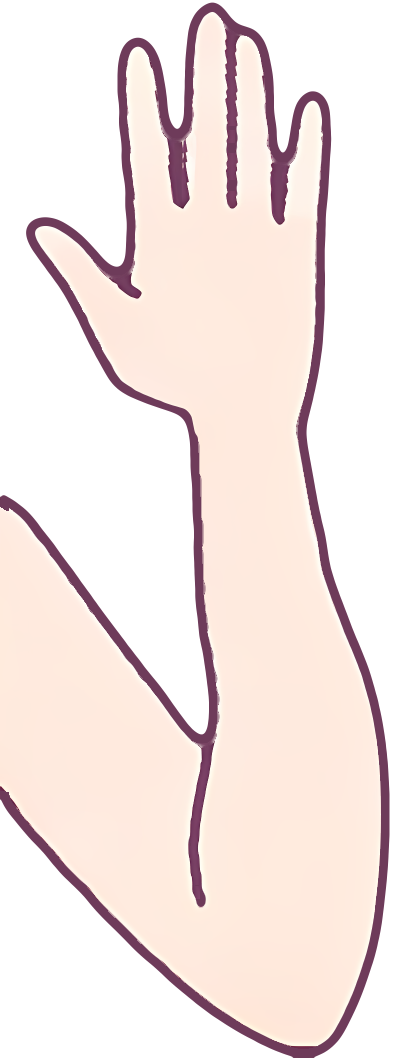
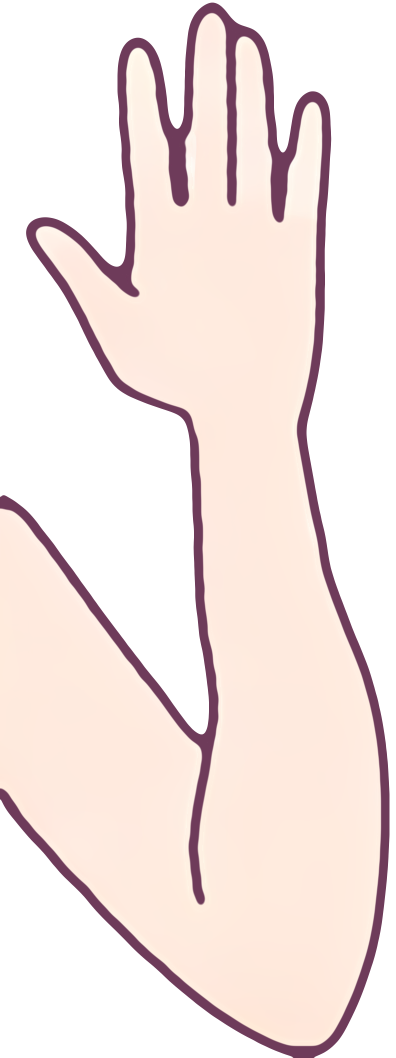
v3 round10: smooth finger inner lines, tone armpit shadow

diff --git a/tools/v3/fix_finger_edges.py b/tools/v3/fix_finger_edges.py
@@ -1,0 +1,41 @@
+"""Round 10: body_wave_arm_* finger lines - the skin-side edge of the ink lines kept small bumps and a
+pale-pink / whitish fringe. Re-derive line coverage from the skin->ink projection, smooth it with a 4x
+supersampled SDF and recompose as skin + ink, so the fringe becomes plain skin and the edge is clean.
+Outer (transparent-side) edges are untouched (coverage forced to 1 beyond alpha)."""
+import sys, glob, os, numpy as np, cv2
+from PIL import Image
+P = sys.argv[1] if len(sys.argv) > 1 else 'public/v3-demo/parts'
+U = 4
+def ss(cov, sg):
+    up = cv2.resize(cov, (cov.shape[1]*U, cov.shape[0]*U), interpolation=cv2.INTER_LINEAR) > 0.5
+    sd = (cv2.distanceTransform(up.astype(np.uint8), cv2.DIST_L2, 5)
+          - cv2.distanceTransform((~up).astype(np.uint8), cv2.DIST_L2, 5))
+    sd = cv2.GaussianBlur(sd, (0, 0), sg*U)
+    return cv2.resize(np.clip(sd/U + 0.5, 0, 1).astype(np.float32), (cov.shape[1], cov.shape[0]), interpolation=cv2.INTER_AREA)
+for f in sorted(glob.glob(f'{P}/body_wave_arm_*.png')):
+    A = np.array(Image.open(f).convert('RGBA')).astype(np.float32)
+    C = A[..., :3]; al = A[..., 3]; op = al >= 250; s = C.sum(2)
+    inkm = op & (s < 330)
+    ink = np.median(C[inkm], 0)
+    # skin reference: blurred colour of skin pixels at least 4px away from ink (fringe excluded)
+    far = cv2.distanceTransform((~inkm).astype(np.uint8), cv2.DIST_L2, 5) > 4
+    sk = (op & far & (s > 600)).astype(np.float32)
+    skin = np.zeros_like(C); den = np.zeros(sk.shape, np.float32); got = np.zeros(sk.shape, bool)
+    for sg in (3, 6, 12, 24):
+        num = cv2.GaussianBlur(C*sk[..., None], (0, 0), sg); dd = cv2.GaussianBlur(sk, (0, 0), sg)
+        ok = ~got & (dd > 0.05); skin[ok] = num[ok]/dd[ok, None]; got |= ok
+    d = ink[None, None] - skin
+    t = ((C - skin)*d).sum(2) / np.maximum((d*d).sum(2), 1)
+    resid = np.linalg.norm(C - skin - t[..., None]*d, axis=2)
+    band = cv2.dilate(inkm.astype(np.uint8), np.ones((9, 9), np.uint8)) > 0
+    band &= op & got & (resid < 40)                       # only skin/ink mixtures (not nails, blush etc.)
+    cov = np.clip(t, 0, 1).astype(np.float32)
+    cov[~op] = 1.0                                         # keep outer contour as is
+    cov[op & ~band] = np.where(inkm[op & ~band], 1, 0)
+    nc = ss(cov, 3.5)
+    # pale fringe: skin-side pixels brighter/pinker than skin with low coverage -> plain skin
+    new = skin*(1 - nc[..., None]) + ink[None, None]*nc[..., None]
+    ch = band & (np.abs(new - C).max(2) > 2)
+    C[ch] = new[ch]
+    Image.fromarray(np.clip(A + .5, 0, 255).astype(np.uint8)).save(f)
+    print(os.path.basename(f), int(ch.sum()))

diff --git a/tools/v3/fix_r9_armpit.py b/tools/v3/fix_r9_armpit.py
@@ -39,5 +39,16 @@ for name in ['hair_back_wave']:
     bl = cv2.GaussianBlur(out * k[..., None], (0, 0), 4) / np.maximum(cv2.GaussianBlur(k, (0, 0), 4), 1e-3)[..., None]
     out = out * (1 - seam[..., None]) + bl * seam[..., None]
     A[..., :3] = np.where(op[..., None], out, A[..., :3])
+    # Round 10: the soft dark-pink blot left where the seam was -> rebuild from surrounding hair tone
+    s2 = A[..., :3].sum(2); op2 = A[..., 3] > 250
+    yy, xx = np.mgrid[0:H, 0:W]
+    r = np.hypot((xx - 1216) / 20.0, (yy - 1526) / 26.0)
+    inner = r < 1.0
+    src = (op2 & ~inner & (s2 > 450) & (r < 2.6)).astype(np.float32)
+    Cc = A[..., :3]
+    num = cv2.GaussianBlur(Cc * src[..., None], (0, 0), 10); den = cv2.GaussianBlur(src, (0, 0), 10)
+    fill = num / np.maximum(den, 1e-3)[..., None]
+    wgt = (np.clip((1.25 - r) / 0.5, 0, 1) * op2 * (s2 > 450))[..., None]
+    A[..., :3] = Cc * (1 - wgt) + fill * wgt
     Image.fromarray(np.clip(A + .5, 0, 255).astype(np.uint8)).save(f)
     print(name, 'armpit fixed px', int(m.sum()))

diff --git a/docs/v3/QA_CHECKLIST.md b/docs/v3/QA_CHECKLIST.md
@@ -75,3 +75,8 @@
 - [x] wave400 8장, 옆머리 비교, w390 전신(basic/none) 눈으로 확인
 - [x] 640프레임 check_frames pass=True, vitest 통과 후에만 푸시
 - 남은 약점: body_wave_arm_* 손가락 안쪽 선 가장자리 미세 요철, none 겨드랑이 아래 흐린 그림자 덩어리(빨간 선 제거 흔적)
+
+## Round 10
+- [x] body_wave_arm_* 손가락 안쪽 선: 요철·연분홍 테두리 제거 (fix_finger_edges.py, SDF 4x 슈퍼샘플)
+- [x] none 겨드랑이 아래 흐린 분홍 그림자 → 주변 머리 톤으로 보정 (fix_r9_armpit.py)
+- 증거: docs/v3/qa/v3-review13/
